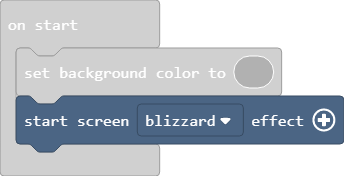
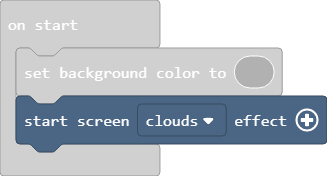
changed to clouds

diff --git a/main.ts b/main.ts
@@ -5,4 +5,4 @@ controller.A.onEvent(ControllerButtonEvent.Pressed, function () {
     music.jumpUp.playUntilDone()
 })
 scene.setBackgroundColor(3)
-effects.blizzard.startScreenEffect()
+effects.clouds.startScreenEffect()
